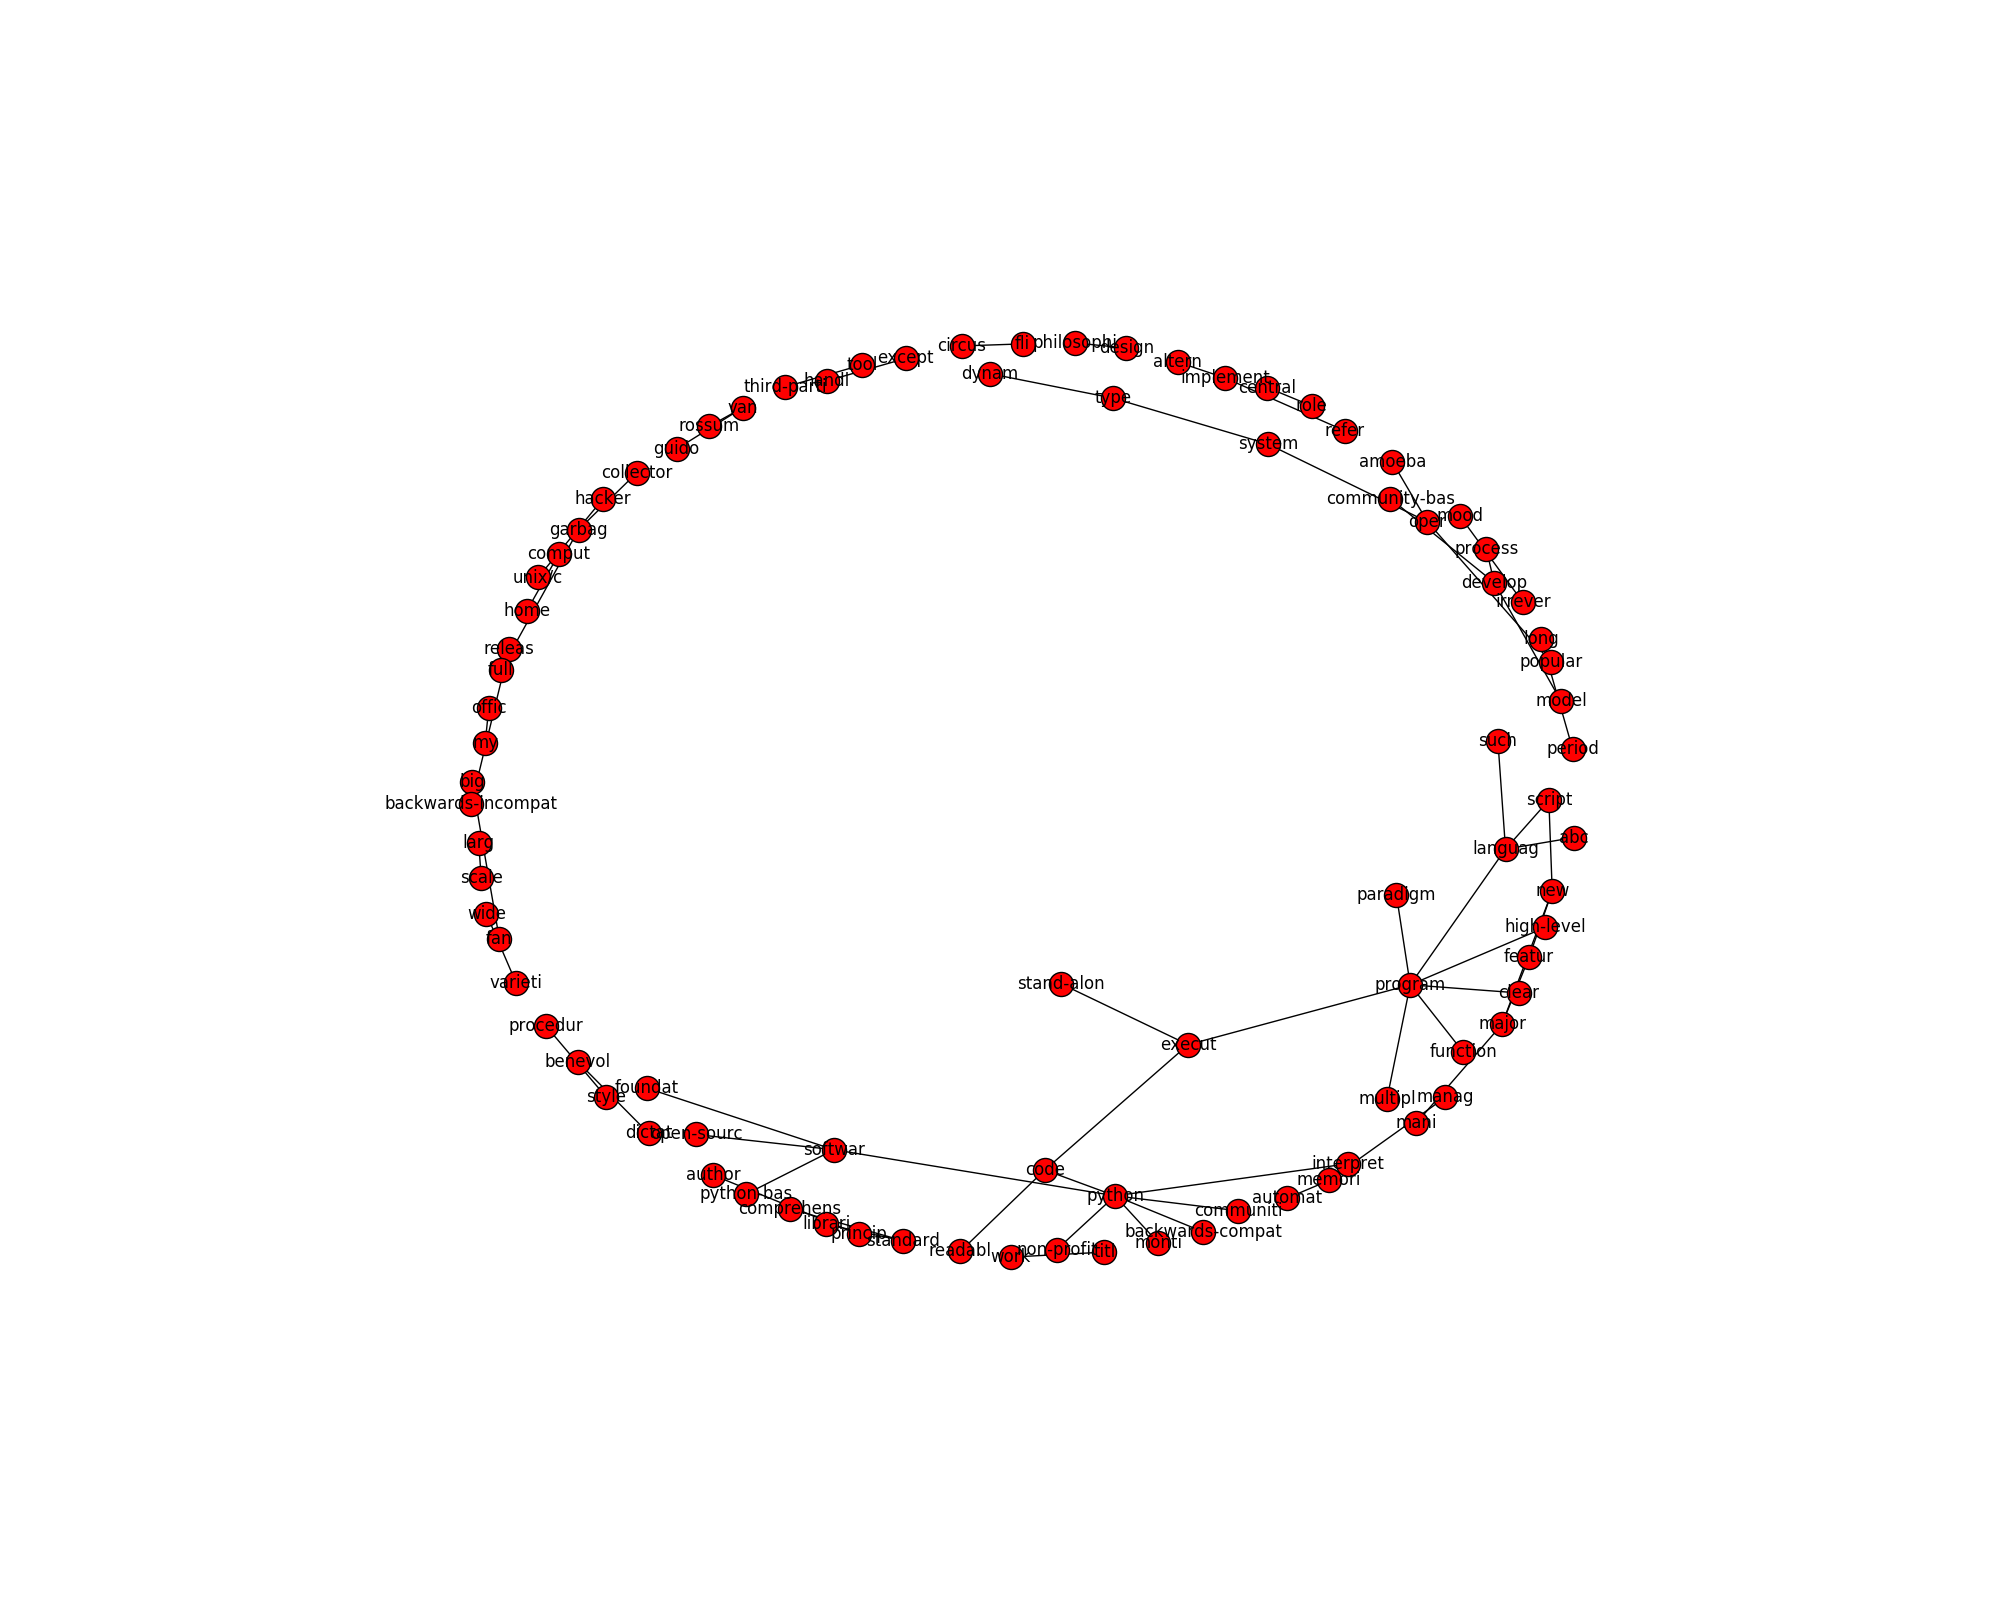
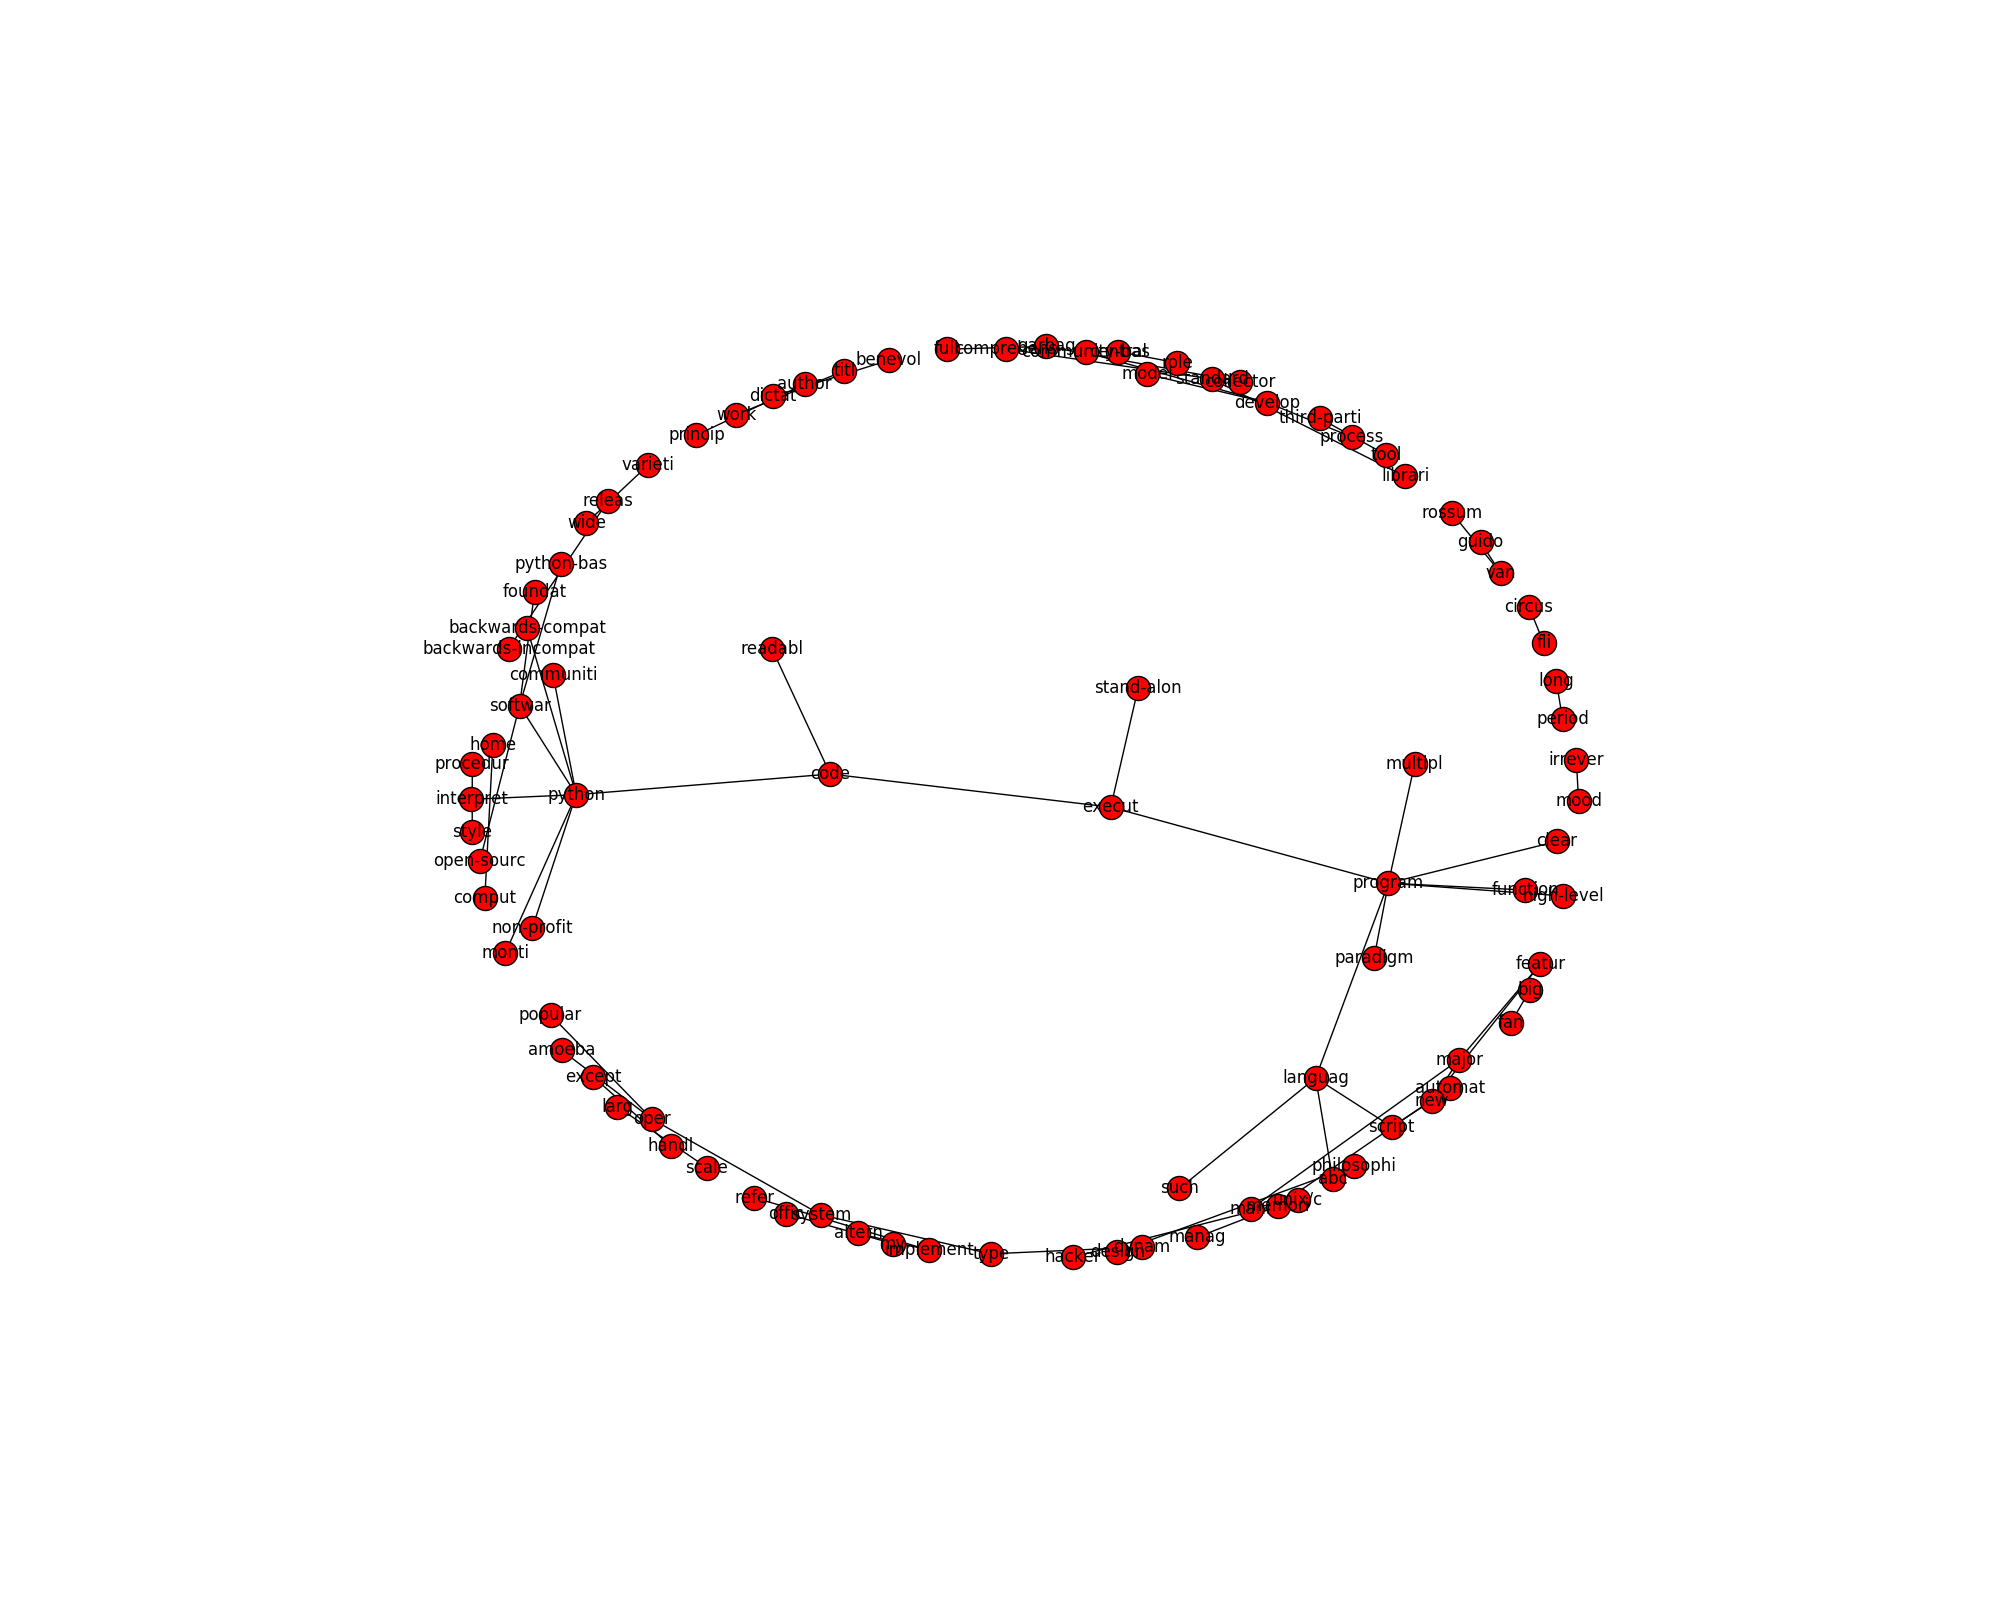
改为使用nltk提供的函数来建图

diff --git a/SSKE.py b/SSKE.py
@@ -38,18 +38,43 @@ def rm_tags(files_text):
         texts_notag.append(text_notag)
     return texts_notag
     
-def get_candidate_p(files_text, accepted_tags):
+###################################################################
+def is_word(token):
+    """
+    A token is a "word" if it begins with a letter.
+    
+    This is for filtering out punctuations and numbers.
+    """
+    return re.match(r'^[A-Za-z].+', token)
+
+def is_good_token(tagged_token):
+    """
+    A tagged token is good if it starts with a letter and the POS tag is
+    one of ACCEPTED_TAGS.
+    """
+    return is_word(tagged_token[0]) and tagged_token[1] in ACCEPTED_TAGS
+    
+def normalized_token(token):
+    """
+    Use stemmer to normalize the token.
+    """
+    stemmer = SnowballStemmer("english") 
+    return stemmer.stem(token.lower())
+#####################################################################
+# 弃用
+def get_candidates_p(files_text, ACCEPTED_TAGS):
     """过滤掉无用词汇，留下候选关键词，选择保留名词和形容词
     files_text格式：[["cat_NN dog_NN"], ["desk_NN tiger_NN"]]
-    accepted_tags控制保留关键词的词性, 例如 accepted_tags = {'NN'}
-    return candidate: [' cat dog', ' desk tiger']
+    ACCEPTED_TAGS控制保留关键词的词性, 例如 ACCEPTED_TAGS = {'NN'}
+    return candidates: [' cat dog', ' desk tiger']
     """
+    # 功能冗余
     texts_splited = []
     word_splited = []
     text_all_splited = []
     texts_all_splited = []
-    single_file_candidate = ''
-    candidate = []
+    single_file_candidates = ''
+    candidates = []
     for f in files_text:
         texts_splited.append(f.split())
     for text_splited in texts_splited:
@@ -62,77 +87,120 @@ def get_candidate_p(files_text, accepted_tags):
     for text in texts_all_splited:
         for word in text:
             # print(word)
-            if word[0][1] in accepted_tags:
-                single_file_candidate = single_file_candidate + ' ' + word[0][0]
-        candidate.append(single_file_candidate)
-        single_file_candidate = ''
-    return candidate
-    
-def get_tfidf(candidate):
-    """计算候选关键词的tfidf值，作为点特征之一
-    输入候选关键词，candidate：[' cat dog', ' desk tiger']
-    输出tfidf值部位0的候选关键词及其tfidf值，用字典存储
-    """
-    vectorizer = CountVectorizer()    
-    transformer = TfidfTransformer()
-    counts = vectorizer.fit_transform(candidate)
-    tfidf = transformer.fit_transform(counts)
-    word = vectorizer.get_feature_names()
-    weight = tfidf.toarray()
-    # print(len(weight[0]))
-    texts_tfidf = []
-    for i in range(len(weight)) :
-        text_tfidf = {}
-        for j in range(len(word)) :
-            if weight[i][j] > 0:
-                text_tfidf[word[j]] = weight[i][j]
-        texts_tfidf.append(text_tfidf)
-    return texts_tfidf
-    
-def get_first_position(candidate):
-    """计算first positon属性，作为点特征之一"""
-    pass
-    
-def get_word_pairs(candidate):
+            if word[0][1] in ACCEPTED_TAGS:
+                single_file_candidates = single_file_candidates + ' ' + word[0][0]
+        candidates.append(single_file_candidates)
+        single_file_candidates = ''
+    return candidates
+# 弃用
+def get_word_pairs(candidates):
     word_pairs = []
-    for i in range(len(candidate)):
-        words = candidate[i].split()
+    for i in range(len(candidates)):
+        words = candidates[i].split()
         word_pair = []
         for j in range(len(words)-1):
             word_pair.append((words[j], words[j+1]))
         word_pairs.append(word_pair)
     return word_pairs
     
-def get_reappear_times(candidate):
+def get_2tokens(texts_notag):
+    """tokens, tagged_tokens是list of lists
+    tokens: [['cat', 'dog'], ['desk', 'tiger']]
+    tagged_tokens: [[("cat","NN"), ("dog", "NN")], [("desk", "NN"), ("tiger", "NN")]]
+    """
+    tokens = []
+    tagged_tokens = []
+    for text in texts_notag:
+        per_tokens = nltk.word_tokenize(text)
+        per_tagged_tokens = nltk.pos_tag(per_tokens)
+        tokens.append(per_tokens)
+        tagged_tokens.append(per_tagged_tokens)
+    return tokens, tagged_tokens
+    
+def get_candidates(tagged_tokens, ACCEPTED_TAGS):
+    """过滤掉无用词汇，留下候选关键词，选择保留名词和形容词
+    files_text格式：[[("cats","NNS"), ("dog", "NN")], [("desk", "NN"), ("tiger", "NN")]]
+    ACCEPTED_TAGS控制保留关键词的词性, 例如 ACCEPTED_TAGS = {'NN'}
+    return candidates: [' cat dog', ' desk tiger']
+    """
+    candidates = []
+    for per_tagged_tokens in tagged_tokens:
+        normalized = ''
+        for tagged_token in per_tagged_tokens:
+            if is_good_token(tagged_token):
+                normalized = normalized + ' '+ normalized_token(tagged_token[0])
+        candidates.append(normalized)
+    return candidates
+    
+def get_tfidf(candidates):
+    """计算候选关键词的tfidf值，作为点特征之一
+    输入候选关键词，candidates：[' cat dog', ' desk tiger']
+    输出tfidf值部位0的候选关键词及其tfidf值，用字典存储
+    """
+    vectorizer = CountVectorizer()    
+    transformer = TfidfTransformer()
+    counts = vectorizer.fit_transform(candidates)
+    tfidf = transformer.fit_transform(counts)
+    word = vectorizer.get_feature_names()
+    weight = tfidf.toarray()
+    candidates_tfidf = []
+    for i in range(len(weight)) :
+        text_tfidf = {}
+        for j in range(len(word)) :
+            if weight[i][j] > 0:
+                text_tfidf[word[j]] = weight[i][j]
+        candidates_tfidf.append(text_tfidf)
+    return candidates_tfidf
+    
+def get_first_position(candidates):
+    """计算first positon属性，作为点特征之一"""
+    pass
+    
+def get_reappear_times(candidates):
     """计算边的重复出现次数，作为边的特征之一"""
     pass
     
-def build_graph(word_pairs):
+def build_graph(tagged_tokens):
     """建图
     返回一个list，list中每个元素为一个图
     """
-    G = []
-    for docs_pair in word_pairs:
-        g = nx.Graph()
-        g.add_edges_from(docs_pair)
-        G.append(g)
-    return G
+    Graphs = []
+    for per_tagged_tokens in tagged_tokens:
+        graph = nx.Graph()
+        bigrams = nltk.ngrams(per_tagged_tokens, 2)
+        for bg in bigrams:
+            # print(bg)
+            if all(is_good_token(t) for t in bg):
+                normalized = [normalized_token(t[0]) for t in bg]
+                graph.add_edge(*normalized)
+        Graphs.append(graph)
+    return Graphs
     
-def use_pagerank(G, pvector=0):
+def add_edge_weight(Graphs, reappear_times):
+    pass
+    
+def use_pagerank(Graphs, candidates_tfidf):
     """使用pagerank函数，计算节点重要性。"""
     pageranks = []
-    for graph in G:
-        pageranks.append(nx.pagerank(graph))
+    for i in range(len(Graphs)):
+        # tfidf值作为personalization向量，报错，提示有节点缺少值
+        pageranks.append(nx.pagerank(Graphs[i]))
+        # pageranks.append(nx.pagerank(Graphs[i], personalization=candidates_tfidf[i]))
+    # for graph in G:
+    #     pageranks.append(nx.pagerank(graph))
     return pageranks
     
 data_path = "./testdata"
+ACCEPTED_TAGS = ['NN', 'NNS', 'NNP', 'NNPS', 'JJ']
 files_text, file_list = read_files(data_path)
-accepted_tags = ['NN', 'NNS', 'NNP', 'NNPS', 'JJ']
-candidate = get_candidate_p(files_text, accepted_tags)
-texts_tfidf = get_tfidf(candidate)
-word_pairs = get_word_pairs(candidate)
-G = build_graph(word_pairs)
-pageranks = use_pagerank(G)
-
+# candidates = get_candidates_p(files_text, ACCEPTED_TAGS)
+# candidates_tfidf = get_tfidf(candidates)
+# word_pairs = get_word_pairs(candidates)
+# G = build_graph(word_pairs)
+# pageranks = use_pagerank(G)
 texts_notag = rm_tags(files_text)
-print(texts_notag)
+tokens, tagged_tokens = get_2tokens(texts_notag)
+candidates = get_candidates(tagged_tokens, ACCEPTED_TAGS)
+candidates_tfidf = get_tfidf(candidates)
+Graphs = build_graph(tagged_tokens)
+pageranks = use_pagerank(Graphs, candidates_tfidf)

diff --git a/reference&practice/textrank.py b/reference&practice/textrank.py
@@ -57,11 +57,9 @@ graph = nx.Graph()
 # 此处有疑问，与textrank论文中的图不同
 bigrams = nltk.ngrams(tagged_tokens, 2)
 for bg in bigrams:
-    # for t in bg:
-    #     normalized = []
-    #     print(stemmer.stem('runs'))
-        # graph.add_edge(*normalized)
+    print(bg)
     if all(is_good_token(t) for t in bg):
+        # print("is_good_token", bg)
         normalized = [normalized_token(t[0]) for t in bg]
         graph.add_edge(*normalized)
         
@@ -119,3 +117,4 @@ for n in range(2, 5):
 sorted_phrases = sorted(phrases, key=str.lower)
 for p in sorted_phrases:
     print(p)
+
